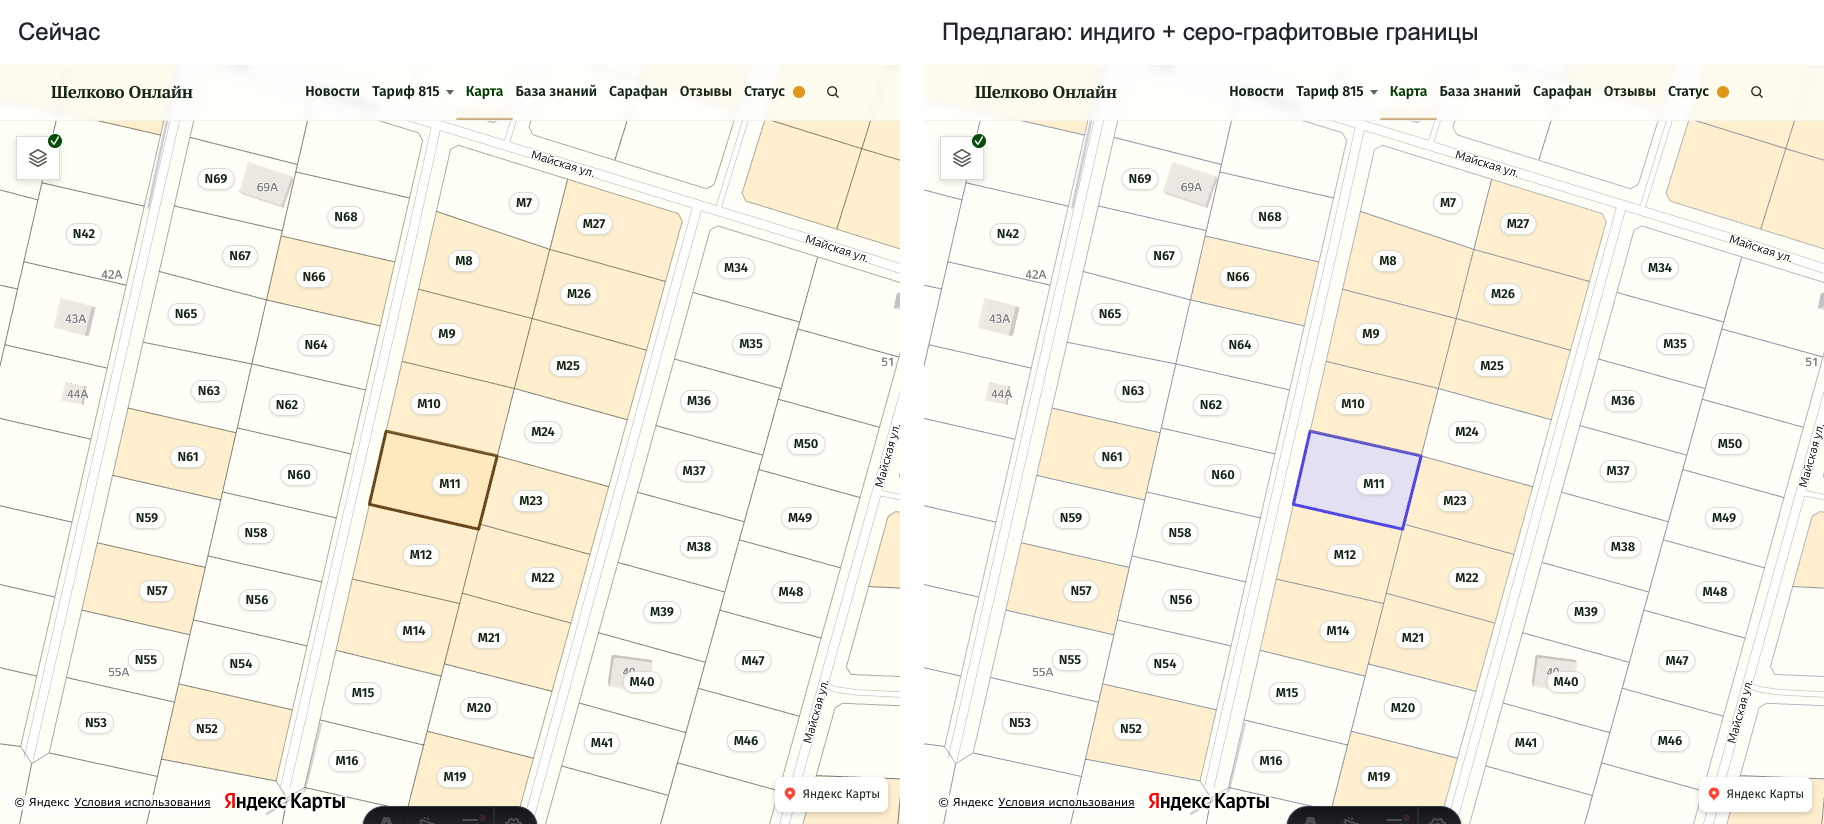
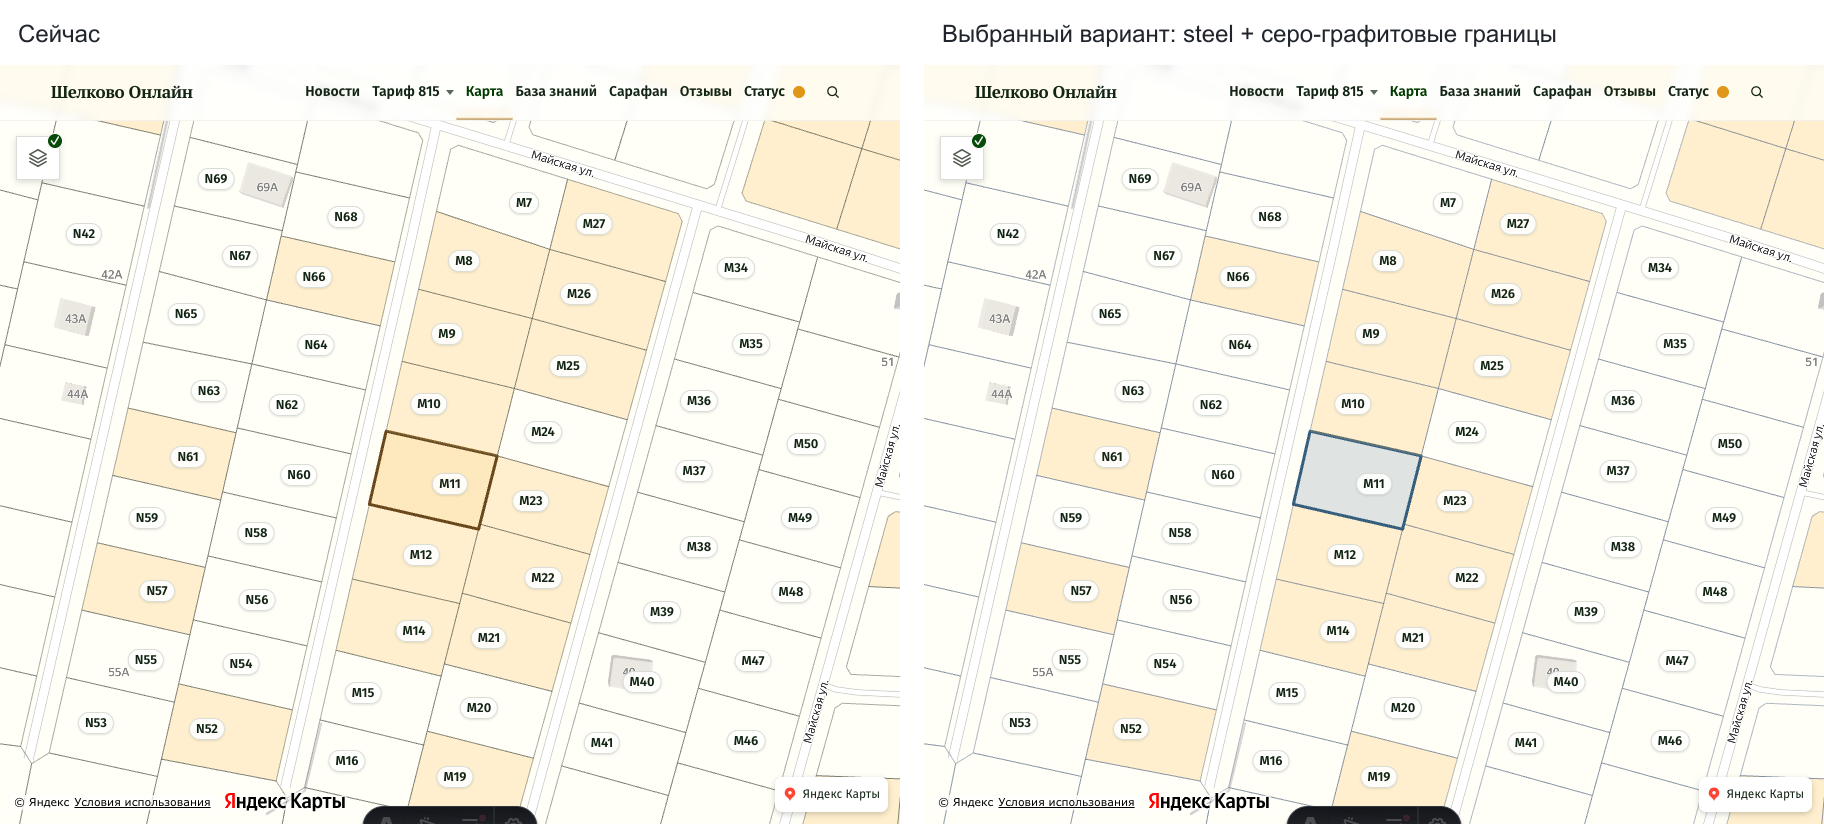
docs(map): approve steel parcel selection
Владелец выбрал steel по визуальному сравнению и разрешил реализацию в этой ветке.

Refs #877

diff --git a/openspec/changes/distinguish-parcel-selection/proposal.md b/openspec/changes/distinguish-parcel-selection/proposal.md
@@ -9,7 +9,7 @@
 ## What Changes
 
 - Обычные границы участков получают холодный серо-графитовый оттенок.
-- Временный выбор получает отдельную лёгкую сплошную заливку индиго и более толстую обводку того же цвета. Его можно отличить от статусного оформления и по цвету, и по толщине линии.
+- Временный выбор получает отдельную лёгкую сплошную заливку приглушённого синего (steel) и более толстую обводку того же цвета. Его можно отличить от статусного оформления и по цвету, и по толщине линии.
 - Цвета для слоя участков закрепляются локально у карты и описываются в дизайн-гайде. Численные значения проверяются на настоящей подложке; [сравнение вариантов](preview.png) приложено для визуального ревью.
 - Продолжительность выбора, совместное выделение всех контуров позиции и возврат к исходному статусному оформлению сохраняются.
 
@@ -28,5 +28,5 @@
 - Реализация затронет `apps/www/src/components/places/parcel-layer.ts`, локальные CSS properties в `PlaceMap.svelte`, существующие тесты `PlaceMap.test.ts` и `docs/design/design-code-shelkovo.md`.
 - Объём ограничен оформлением участков общей карты. Статусные заливки, данные, подписи, URL и поиск сохраняют действующие правила. Попап со сведениями об участке относится к отдельной задаче #861.
 - Используется установленный SDK Яндекс Карт; новые зависимости и внешние ресурсы не нужны.
-- Сейчас владелец ревьюит документы и визуальный вариант в PR из ветки `design/parcel-selection-colors`. Реализация запланирована позже в той же ветке после отдельного разрешения. Этот PR на стадии планирования использует `Refs #877`; change остаётся активным до завершения реализации и приёмки.
+- После ревью визуальных вариантов владелец выбрал steel и разрешил реализацию 28 сентября 2026 года. Работа продолжается в ветке `design/parcel-selection-colors` и PR #878; change остаётся активным до завершения реализации и приёмки.
 - Приёмка реализации — локальные проверки и браузерная сверка на desktop/mobile; отдельная production-приёмка не требуется. После обычного завершения PR сможет закрыть задачу.

diff --git a/openspec/changes/distinguish-parcel-selection/tasks.md b/openspec/changes/distinguish-parcel-selection/tasks.md
@@ -1,6 +1,6 @@
 # Tasks
 
-Реализация начинается после ревью этого change и отдельного разрешения владельца; работа продолжается в `design/parcel-selection-colors` и существующем PR. Визуальная примерка `preview.png` не означает выполнения задач ниже.
+Владелец выбрал steel и разрешил реализацию 28 сентября 2026 года; работа продолжается в `design/parcel-selection-colors` и PR #878. Визуальная примерка `preview.png` не означает выполнения задач ниже.
 
 ## 1. Оформление участков
 
